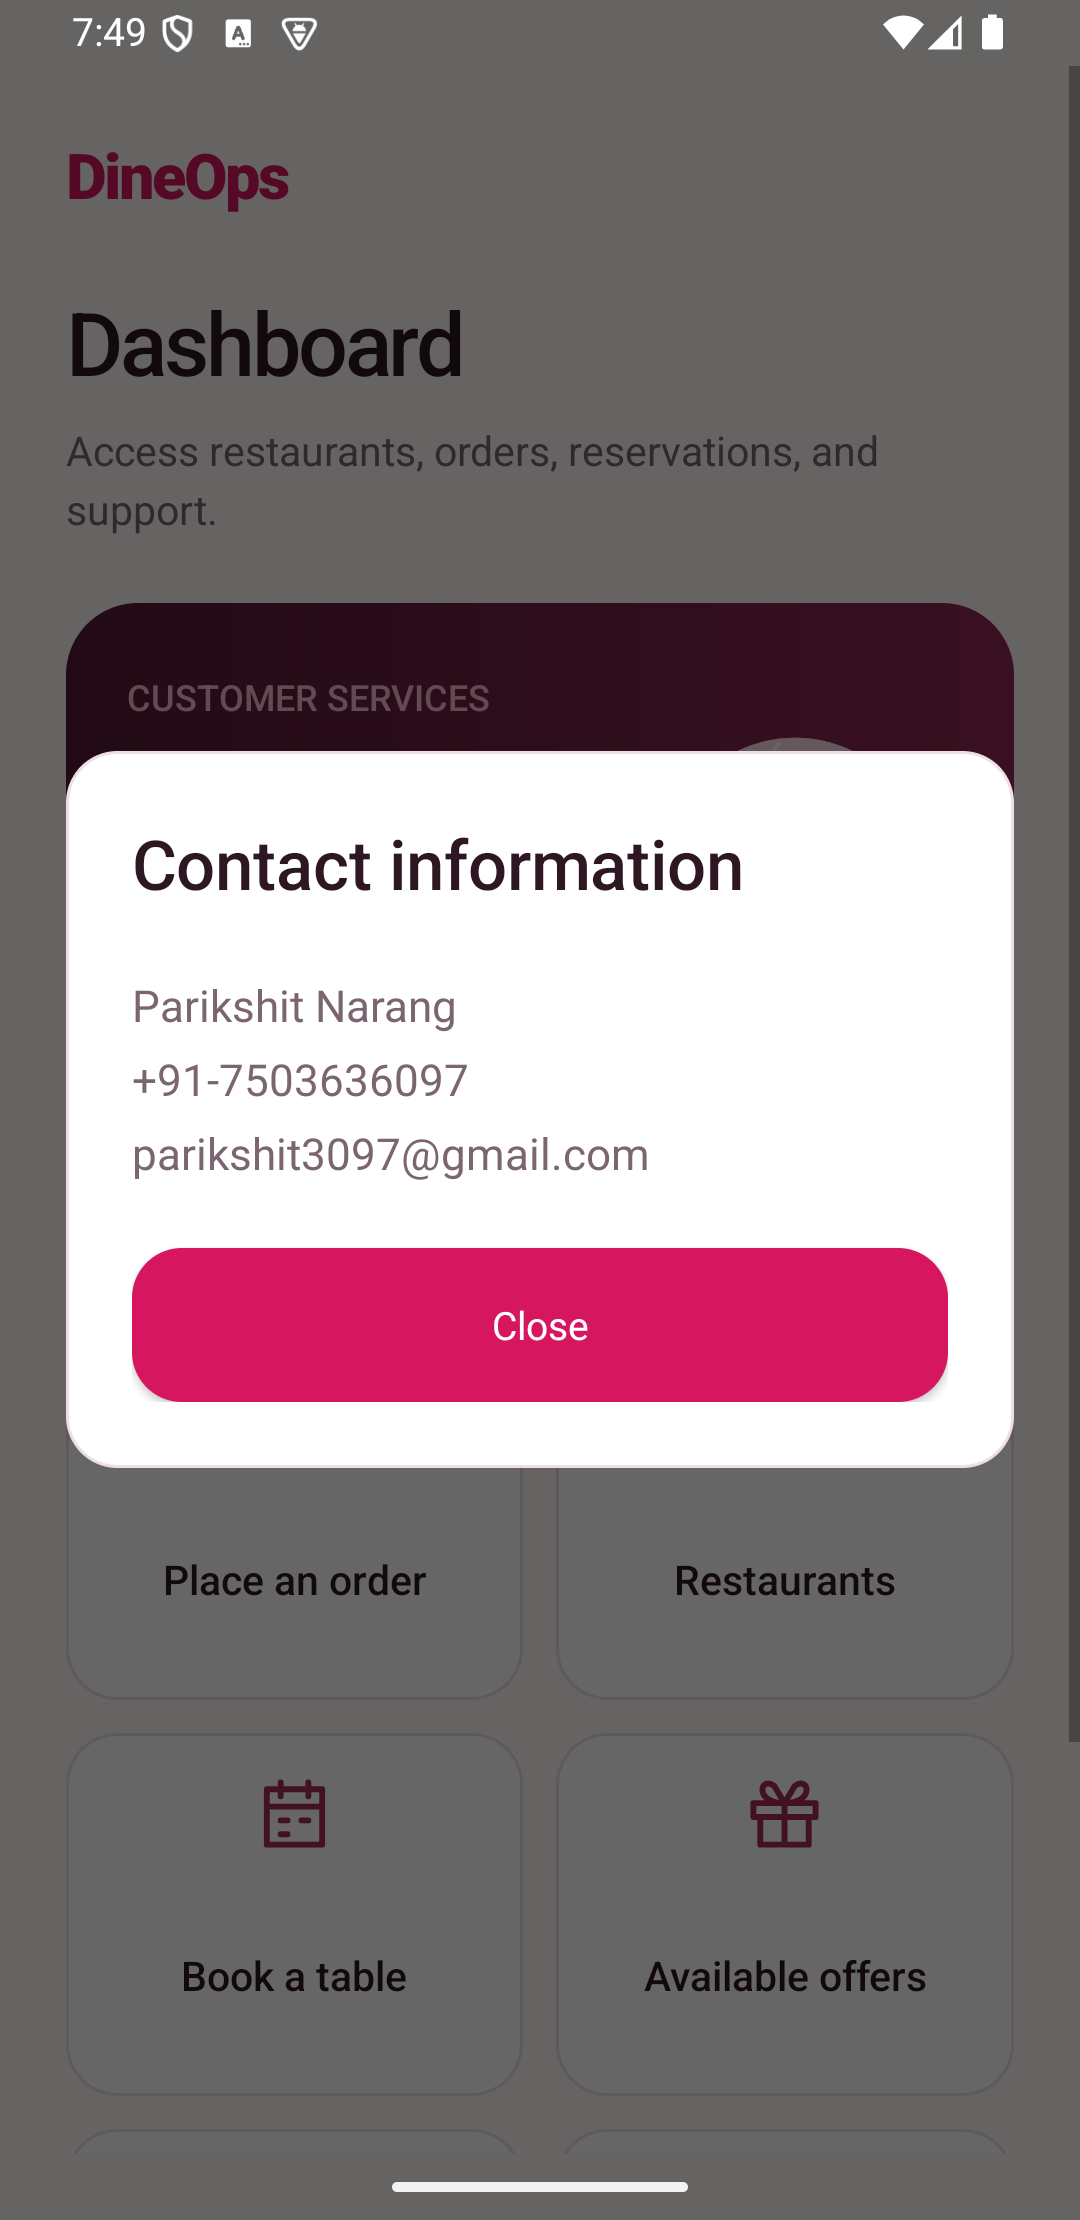
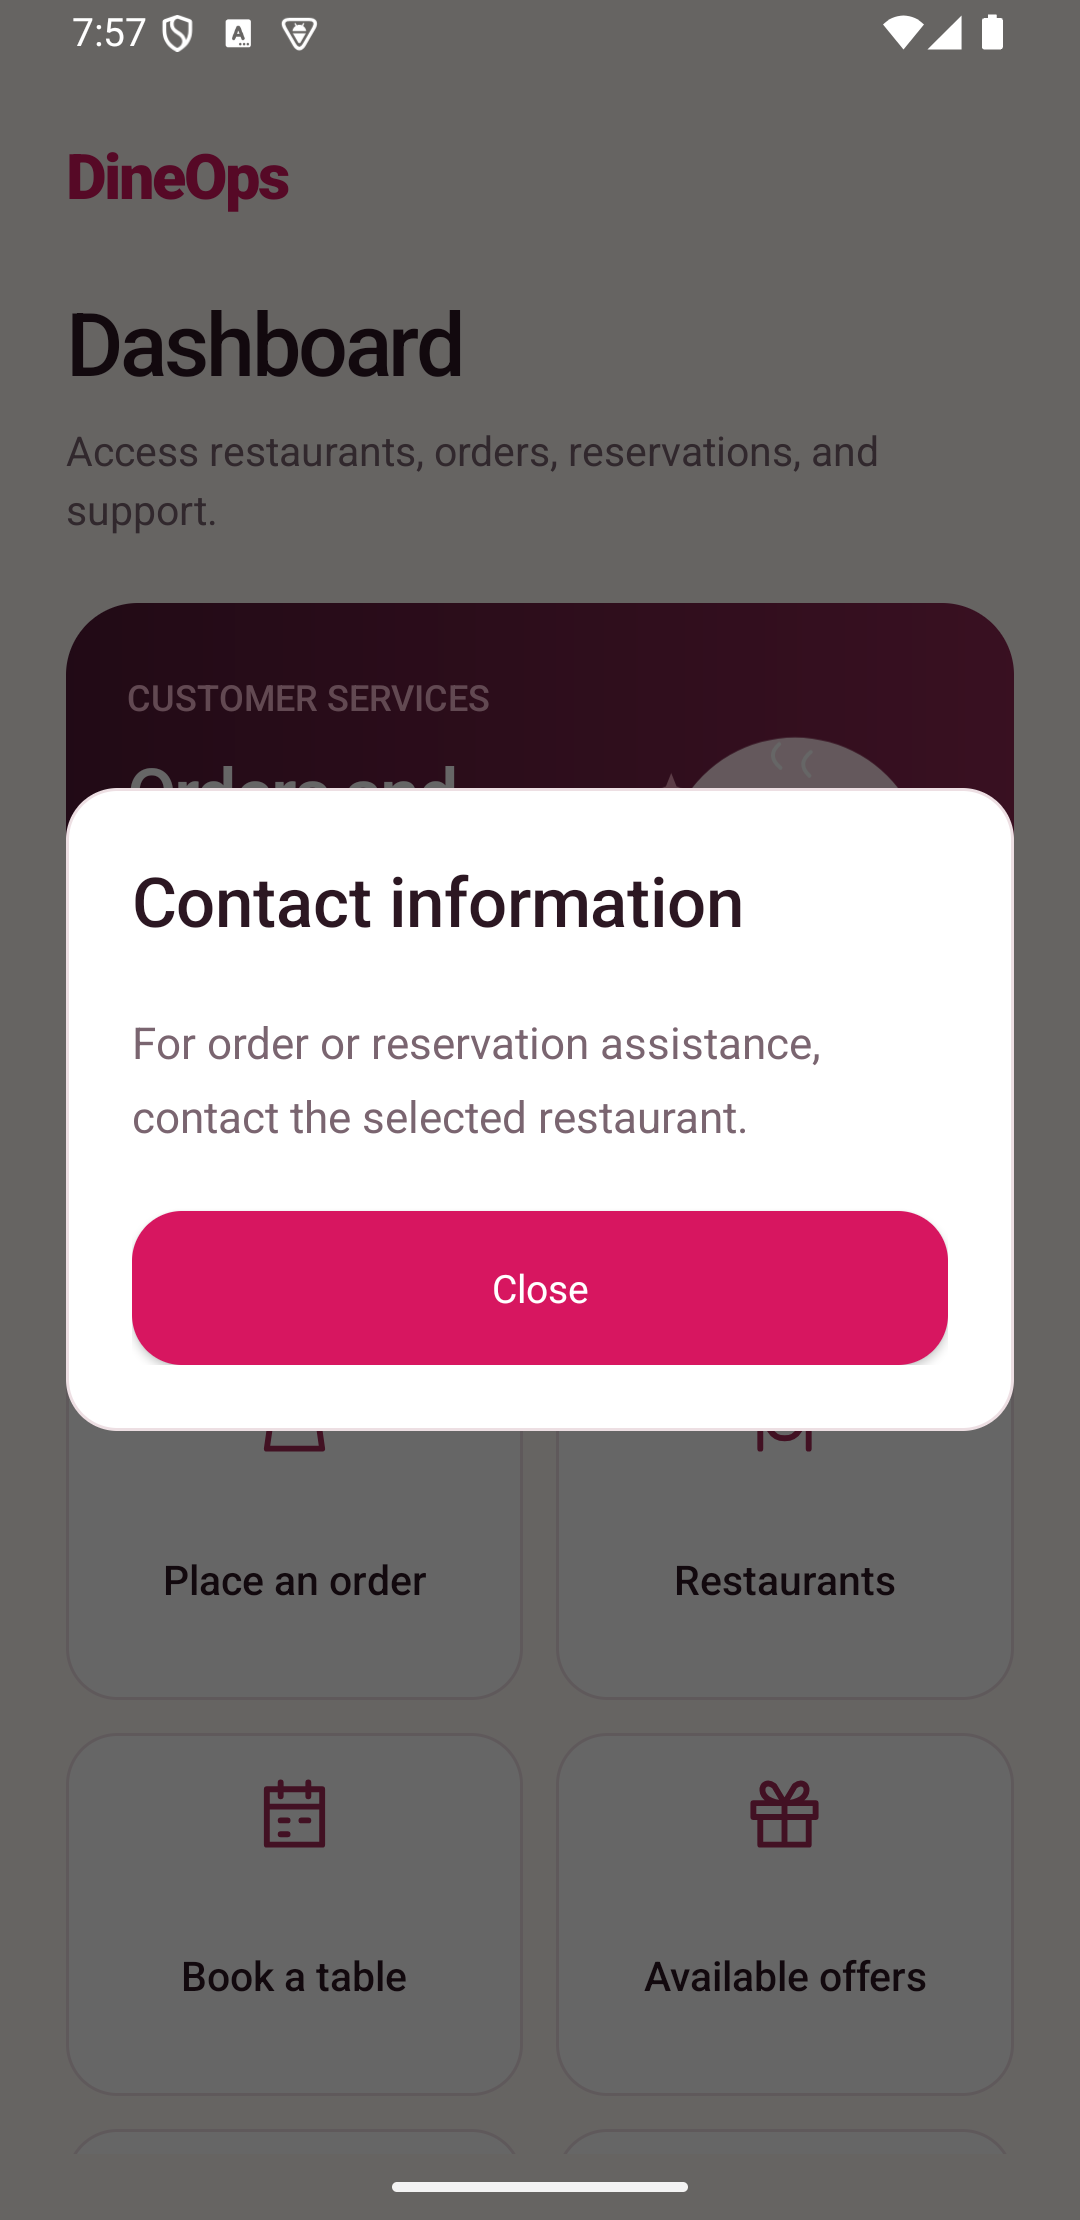
Remove personal contact details from app and screenshots

Changed region(s): [[0.0611, 0.3108, 0.9472, 0.6838], [0.9778, 0.0311, 1.0, 0.8081], [0.0917, 0.0, 0.1222, 0.0311]]

diff --git a/RestaurantMgmtPAndZ/app/src/main/java/com/example/parikshitnarang/restaurantmgmtpandz/KFCtablehall.java b/RestaurantMgmtPAndZ/app/src/main/java/com/example/parikshitnarang/restaurantmgmtpandz/KFCtablehall.java
@@ -68,7 +68,7 @@ public class KFCtablehall extends UiActivity implements DatePickerDialog.OnDateS
         EditText tableet=(EditText)findViewById(R.id.ettableno);
         EditText hallnoet=(EditText)findViewById(R.id.ethallno);
         TextView datetv=(TextView)findViewById(R.id.etdate);
-        boolean result=bdba.insertData("Parikshit Narang",tableet.getText().toString(),hallnoet.getText().toString(),datetv.getText().toString());
+        boolean result=bdba.insertData("Demo Customer",tableet.getText().toString(),hallnoet.getText().toString(),datetv.getText().toString());
         if(result==true) {
             Toast.makeText(this, getString(R.string.message_11), Toast.LENGTH_SHORT).show();
         }else{

diff --git a/RestaurantMgmtPAndZ/app/src/main/java/com/example/parikshitnarang/restaurantmgmtpandz/KFC.java b/RestaurantMgmtPAndZ/app/src/main/java/com/example/parikshitnarang/restaurantmgmtpandz/KFC.java
@@ -138,7 +138,7 @@ public class KFC extends UiActivity implements DatePickerDialog.OnDateSetListene
         TextView dd=(TextView) findViewById(R.id.etdate);
 
         CartDatabase cdb=new CartDatabase(this);
-        boolean res=cdb.insertData("Parikshit Narang",item.getText().toString(),qty.getText().toString(),dd.getText().toString(),total);
+        boolean res=cdb.insertData("Demo Customer",item.getText().toString(),qty.getText().toString(),dd.getText().toString(),total);
         if(res==true){
             Toast.makeText(this,getString(R.string.message_18), Toast.LENGTH_SHORT).show();
         }else{

diff --git a/RestaurantMgmtPAndZ/app/src/main/java/com/example/parikshitnarang/restaurantmgmtpandz/activity_sign_in.java b/RestaurantMgmtPAndZ/app/src/main/java/com/example/parikshitnarang/restaurantmgmtpandz/activity_sign_in.java
@@ -17,7 +17,7 @@ public class activity_sign_in extends UiActivity {
         super.onCreate(savedInstanceState);
         setContentView(R.layout.activity_sign_in);
         mydbsignin=new DatabaseHelper1(this);
-        mydbsignin.insertData("Parikshit Narang","7503636097");
+        mydbsignin.insertData("Demo Customer","2025550100");
     }
 
     public void verify(View view) {

diff --git a/RestaurantMgmtPAndZ/app/src/main/java/com/example/parikshitnarang/restaurantmgmtpandz/ContactDialogBox.java b/RestaurantMgmtPAndZ/app/src/main/java/com/example/parikshitnarang/restaurantmgmtpandz/ContactDialogBox.java
@@ -11,6 +11,6 @@ public class ContactDialogBox extends AppCompatDialogFragment {
     @Override
     public Dialog onCreateDialog(Bundle savedInstanceState) {
         return UiDialog.create(getActivity(), getString(R.string.message_44),
-            "Parikshit Narang\n+91-7503636097\nparikshit3097@gmail.com");
+            getString(R.string.support_contact_details));
     }
 }

diff --git a/RestaurantMgmtPAndZ/app/src/main/java/com/example/parikshitnarang/restaurantmgmtpandz/admin.java b/RestaurantMgmtPAndZ/app/src/main/java/com/example/parikshitnarang/restaurantmgmtpandz/admin.java
@@ -15,7 +15,6 @@ public class admin extends UiActivity {
         super.onCreate(savedInstanceState);
         setContentView(R.layout.activity_admin);
         dba=new DatabaseAdmin(this);
-//        dba.insertData("Pari","7503636097","abc@xyz.com");
     }
 
     public void viewData(View view) {
